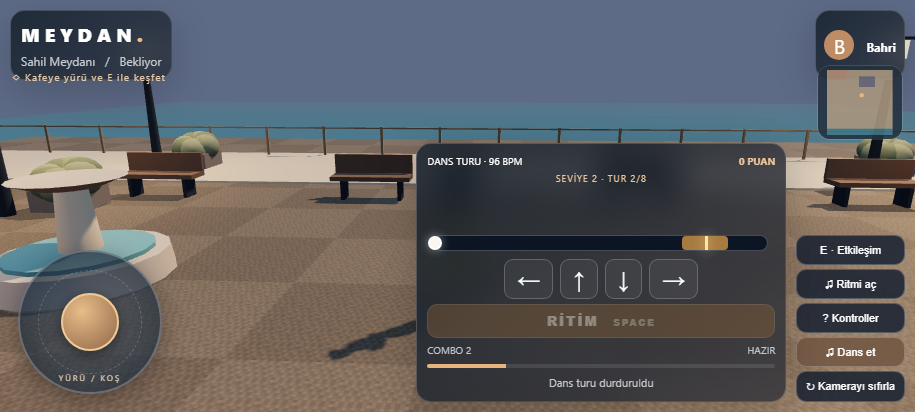
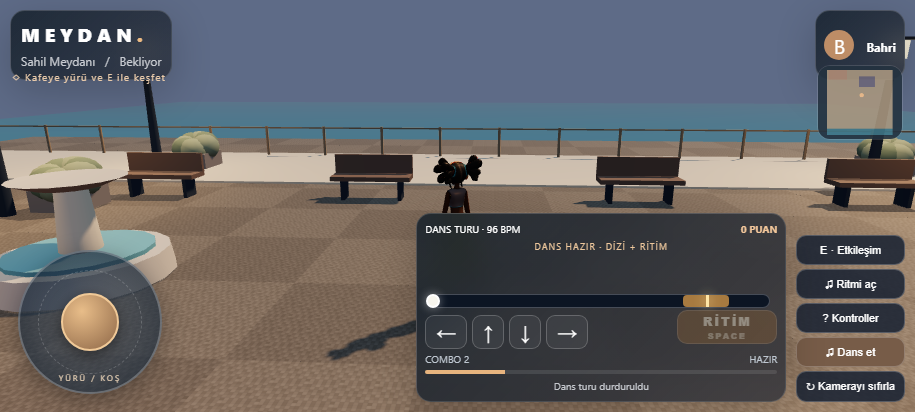
Compact mobile rhythm panel and document verified 1.2 tests

Changed region(s): [[0.4284, 0.3204, 0.8568, 0.6117], [0.459, 0.6699, 0.8568, 0.932], [0.5814, 0.9029, 0.7344, 0.9612]]

diff --git a/shell.html b/shell.html
@@ -35,6 +35,14 @@
 body[data-dancing="true"] #joystick{opacity:.25;pointer-events:none}
 @media(pointer:coarse){#joystick{display:block}.dance{width:min(370px,46vw)}.phrase-row{gap:4px;min-height:40px;margin:3px 0}.phrase-arrow{height:31px;font-size:21px}.keys{margin:5px 0}.beat-track{margin:8px 7px;height:16px}#phrase-level{margin-top:4px;font-size:9px}#confirm-beat{padding:7px}.dance-meta{margin-top:5px}}
 @media(pointer:coarse) and (max-height:390px){#joystick{width:126px;height:126px}.dance{padding:7px}.profile{display:none}.phrase-arrow{height:26px}.phrase-row{min-height:30px}.keys .key{min-height:33px;padding:1px 10px}}
+
+@media(pointer:coarse){
+ .dance{position:relative;padding:8px}.phrase-row{min-height:34px;margin:1px 0}.phrase-arrow{height:30px}
+ .dance .keys{justify-content:flex-start;gap:5px;margin:4px 110px 4px 0}.dance .key{min-height:34px;padding:2px 10px;font-size:20px}
+ #confirm-beat{position:absolute;right:8px;bottom:57px;width:100px;height:34px;padding:2px;font-size:12px}
+ #confirm-beat small{display:block;margin:0;font-size:8px}.dance .status{font-size:10px;line-height:14px;min-height:14px}
+ .dance .progress{margin:5px 0}.dance-meta{margin-top:2px;line-height:12px}.beat-track{height:14px;margin:7px}
+}
 </style></head><body><script>window.showBootError=function(msg){let box=document.getElementById('loading');if(!box){box=document.createElement('div');box.id='loading';document.body.append(box)}box.innerHTML='<strong>Başlatma sorunu</strong><span></span><button onclick="location.reload()">Tekrar dene</button>';box.querySelector('span').textContent=msg;};window.addEventListener('error',e=>window.showBootError(e.message));window.addEventListener('unhandledrejection',e=>window.showBootError(String(e.reason?.message||e.reason)));setTimeout(()=>{if(!document.body.dataset.ready)window.showBootError('Yükleme tamamlanamadı. Bu sürümün tüm dosyaları HTML içine gömülüdür. Sayfayı yenileyip tekrar deneyin.');},45000);</script><div id="loading"><strong>MEYDAN.</strong><span id="loadtext">İnsan modeli ve dans animasyonu yükleniyor…</span></div><div class="hud"><div class="top"><div class="glass"><div class="brand">MEYDAN<em>.</em></div><div class="small"><span id="zone">Sahil Meydanı</span> &nbsp; / &nbsp; <span id="motion">Hazırlanıyor</span></div></div><div class="glass profile"><div class="avatar">B</div><div><b>Bahri</b><div class="small">Yerel prototip &nbsp; <span class="live">● Çalışıyor</span></div></div></div></div><div class="bottom"><div class="glass controls"><div class="eyebrow">Keşfet</div>WASD: yürü · Shift: koş<br>Yere tıkla: oraya git<br>Sürükle: kamera · Tekerlek: yakınlaş<br>F: dans · E: etkileşim · Esc: menü<div class="controlrow"><button data-move="-1,0">←</button><button data-move="0,-1">↑</button><button data-move="0,1">↓</button><button data-move="1,0">→</button></div><div class="sound"><span id="coords">0, 0</span> · Yerel demo</div></div>
 <div class="glass dance"><div class="line"><span id="dance-title">DANS TURU · 96 BPM</span><b id="score">0 PUAN</b></div><div id="phrase-level">SEVİYE 1 · DİZİYİ TAMAMLA</div><div class="phrase-row" id="notes" aria-label="Dans ok dizisi"></div><div class="beat-track" id="beat-track" aria-label="Ritim onay göstergesi"><div id="confirm-zone"></div><i id="phrase-cursor"></i></div><div class="keys"><button class="key" aria-label="Sol">←</button><button class="key" aria-label="Yukarı">↑</button><button class="key" aria-label="Aşağı">↓</button><button class="key" aria-label="Sağ">→</button></div><button id="confirm-beat" disabled>RİTİM <small>SPACE</small></button><div class="dance-meta"><span id="combo">COMBO 0</span><span id="timer">HAZIR</span></div><div class="progress"><i id="songprogress"></i></div><div class="status" id="status">Diziyi gir · altın hedefte RİTİM / Space</div></div><div class="actions"><button id="interact">E · Etkileşim</button><button id="sound">♫ Ritmi aç</button><button id="help">? Kontroller</button><button id="dance">♫ Dans et</button><button id="camera">↻ Kamerayı sıfırla</button></div></div></div><div class="notice"><div id="quest">◇ Kafeye yürü ve E ile keşfet</div></div><canvas id="minimap" width="160" height="140"></canvas><div id="toast"></div><div id="pausemenu" hidden><div class="glass menu"><div class="brand">MEYDAN.</div><p>WASD ile yürü, Shift ile koş.<br>Yere tıklayarak da hedef seçebilirsin.<br>Fareyi sürükleyerek kamerayı çevir.<br>F: dans · E: etkileşim · Esc: duraklat</p><p>Kafe ve sahili keşfet. Dans pistinde<br>ok dizisini tamamla; altın hedefte Space ile onayla.</p><button id="resume">Oyuna dön</button></div></div><div class="result" id="result" hidden><div class="glass result-card"><div class="eyebrow">DANS TURU TAMAMLANDI</div><div class="grade" id="grade">A</div><b id="resultscore">0 PUAN</b><div class="stats"><span id="perfects">0 Perfect</span><span id="greats">0 Great</span><span id="goods">0 Good</span><span id="misses">0 Miss</span></div><button id="again">Tekrar dans et</button> <button id="closeresult">Meydana dön</button></div></div>
 <div class="songselect" id="songselect" hidden><div class="glass song-card"><div class="eyebrow">Şarkı & Ritim Seçimi</div><div class="song-list" id="songlist"></div><div class="diff-selector"><button class="diff-btn active" data-diff="easy" id="btn-diff-easy">Kolay</button><button class="diff-btn" data-diff="hard" id="btn-diff-hard">Zor</button></div><div class="song-details" id="songdetails"><div>BPM: 96 · Yatay ok dizileri</div><div>Tahmini Süre: ~14 saniye · Seviye: 1</div></div><div class="song-actions"><button id="song-cancel">İptal</button><button id="song-start" style="background:#d9a66f;color:#172230;font-weight:700">Dansı Başlat</button></div></div></div>

diff --git a/package_source.py b/package_source.py
@@ -13,7 +13,7 @@ with zipfile.ZipFile(output, 'w', zipfile.ZIP_DEFLATED, compresslevel=9) as arch
         archive.write(file, Path('MEYDAN') / relative)
 with zipfile.ZipFile(output) as archive:
     assert archive.testzip() is None
-    for required in ('build_apk.py', 'build_standalone.py', 'shell.html', 'dist/game.js',
+    for required in ('build_apk.py', 'build_standalone.py', 'shell.html', 'dist/game.js', 'dist/gameplay.js', 'tests/gameplay.cjs',
                      'dist/assets/Michelle.glb', 'dist/assets/Xbot.glb', 'dist/beatmaps/meydan_demo.json',
                      'android/src/com/bahri/meydan/MainActivity.java', 'YENIDEN_DERLEME.md'):
         assert 'MEYDAN/' + required in archive.namelist(), required

diff --git a/TEST_RAPORU.md b/TEST_RAPORU.md
@@ -23,6 +23,12 @@ bu bir donanım giriş gecikmesi ölçümü değildir. Kullanılan zaman pencere
 Jadde'nin birebir milisaniye toleransları veya puan katsayıları olduğu iddia edilmez.
 Müzik, APK içinde kodla üretilen özgün pop/dance demo ritmidir; ticari Jadde şarkıları eklenmedi.
 
+Teslim APK'sı ayrıca `test_release_android.py` ile emülatöre temiz kurulup uçak
+modunda açıldı; gerçek Android geri tuşuyla kontroller ve şarkı menüsü kapandı.
+GitHub Actions'ta 1.2 Linux bulut derlemesi ve kural/paket testleri de geçti:
+https://github.com/NoctiFlor/meydan/actions/runs/40896770535
+İndirilen APK'nın sertifikası yerel APK ile aynı; gömülü oyun içeriği eşleşiyor.
+
 Aşağıdaki bölüm önceki 1.1 sürümünün tarihsel raporudur.
 
 ---
